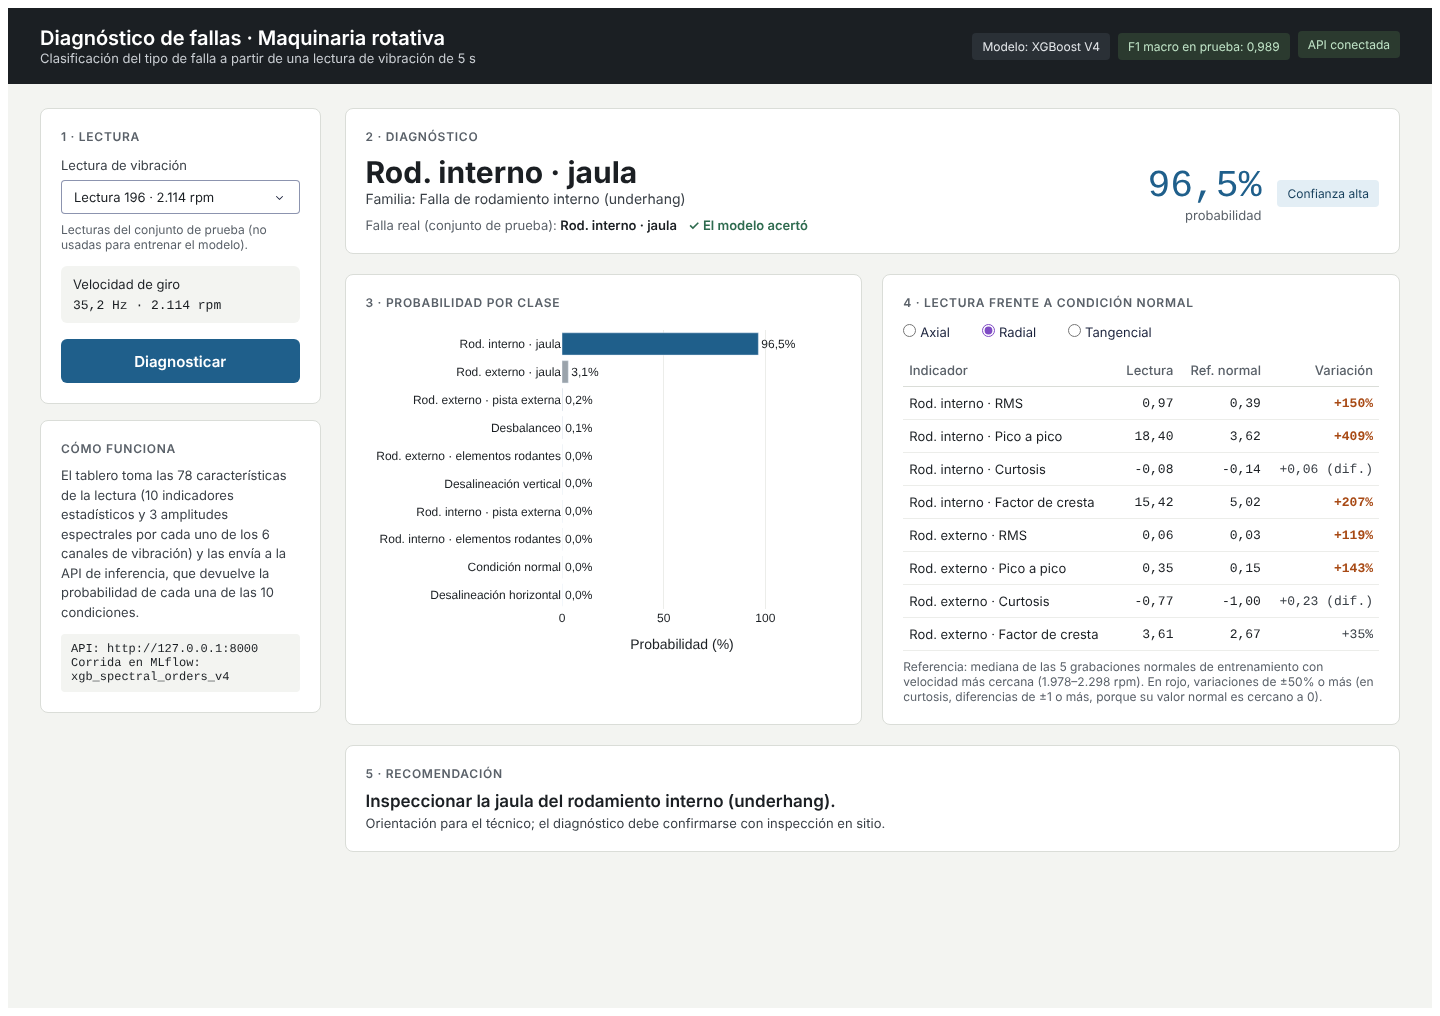
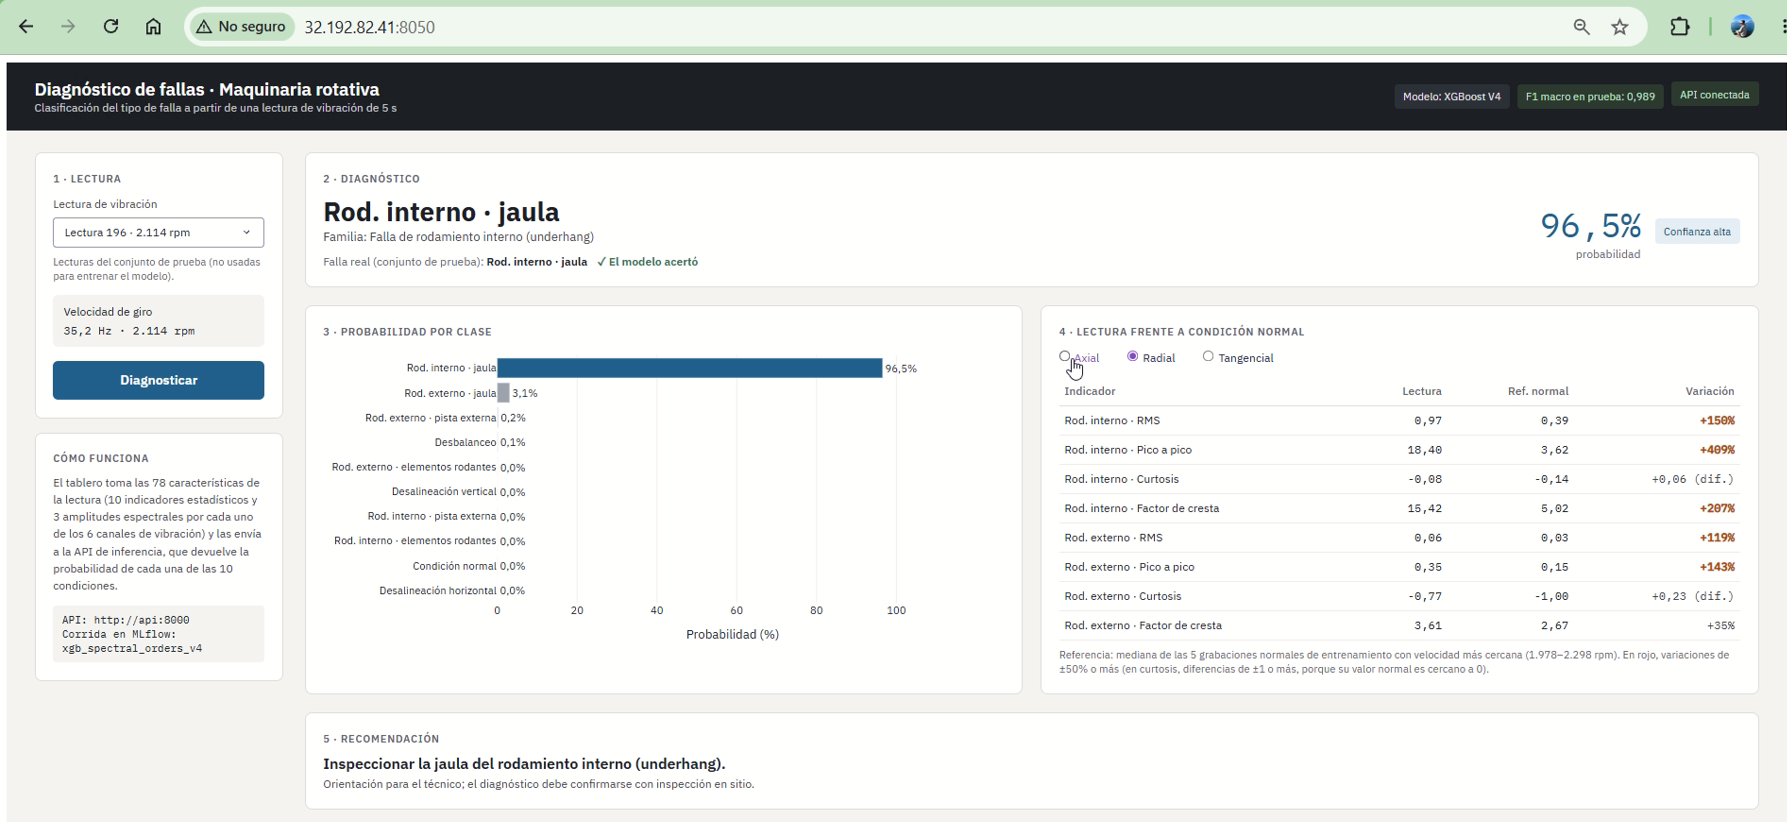
Actualiza captura del tablero desplegado y enlaza manual en README

diff --git a/README.md b/README.md
@@ -27,6 +27,7 @@ El proyecto clasifica, a partir de una grabación de vibración de 5 segundos, s
 │   ├── features_mafaulda.csv.dvc           Tabla de características temporales (1.951 × 69)
 │   ├── features_mafaulda_v2.csv.dvc        Tabla maestra temporal + espectral (1.951 × 87, 78 features)
 │   └── raw/MAFAULDA.dvc                    Dataset original
+├── docs/img/manual/                        Capturas usadas en el manual de usuario
 ├── notebooks/
 │   └── eda_brian.ipynb                     Análisis exploratorio de datos
 ├── reports/
@@ -39,6 +40,7 @@ El proyecto clasifica, a partir de una grabación de vibración de 5 segundos, s
 │   └── train_xgboost*.py                   Experimentos XGBoost V1 a V4
 ├── docker-compose.yml                      Orquestación de contenedores (API + Tablero)
 ├── MANUAL_INSTALACION.md                   Manual detallado de instalación y despliegue
+├── MANUAL_USUARIO.md                       Manual de uso e interpretación del tablero
 └── requirements.txt                        Dependencias completas del entorno de entrenamiento
 ```
 
